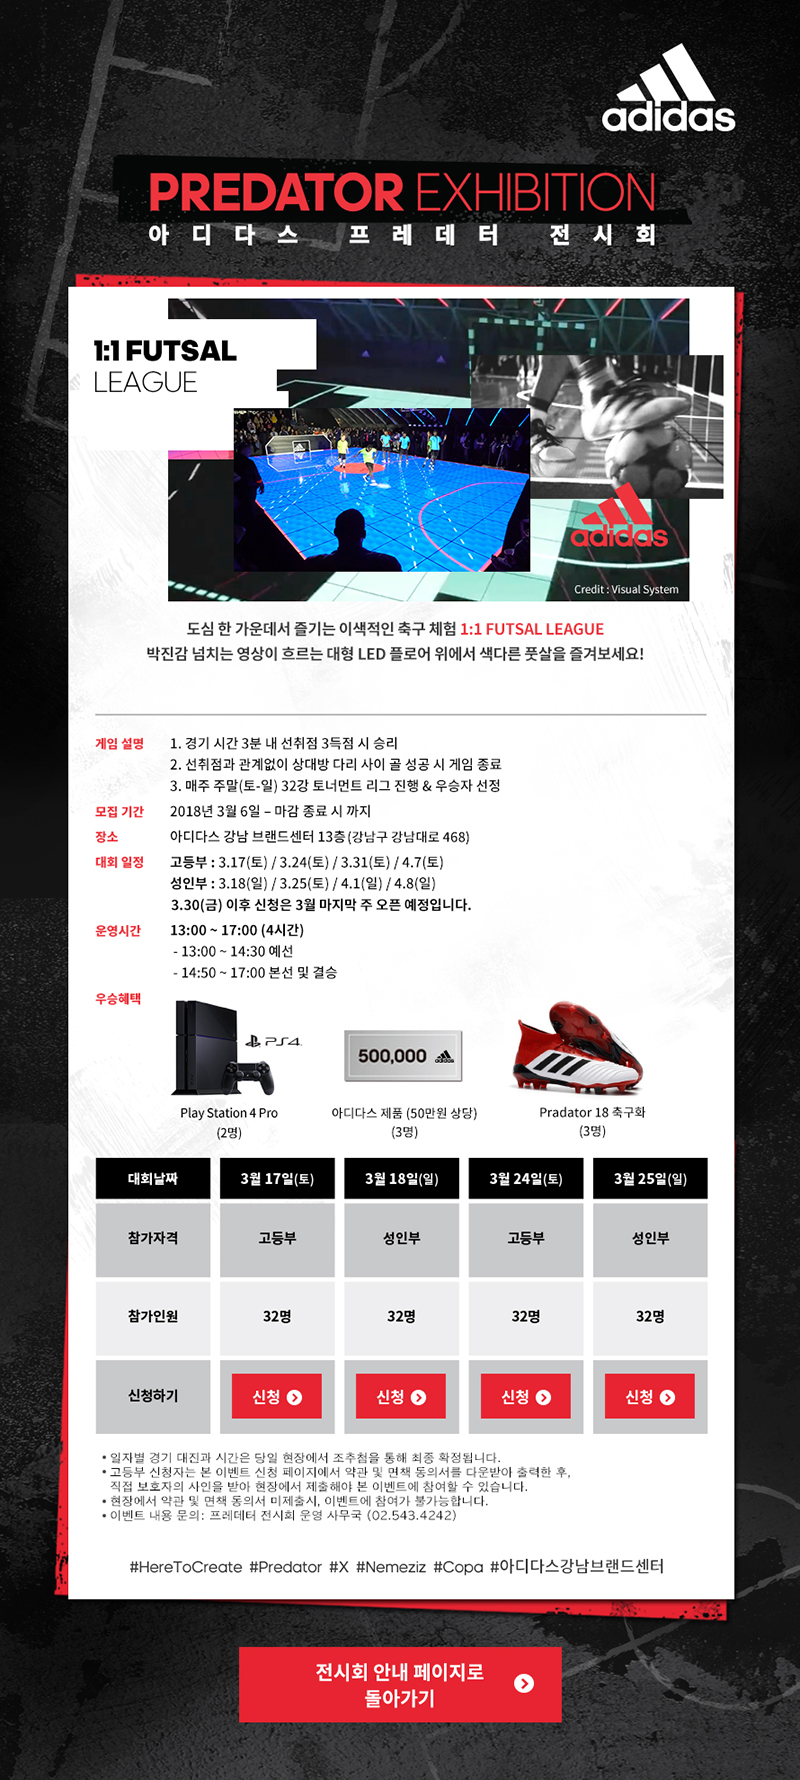
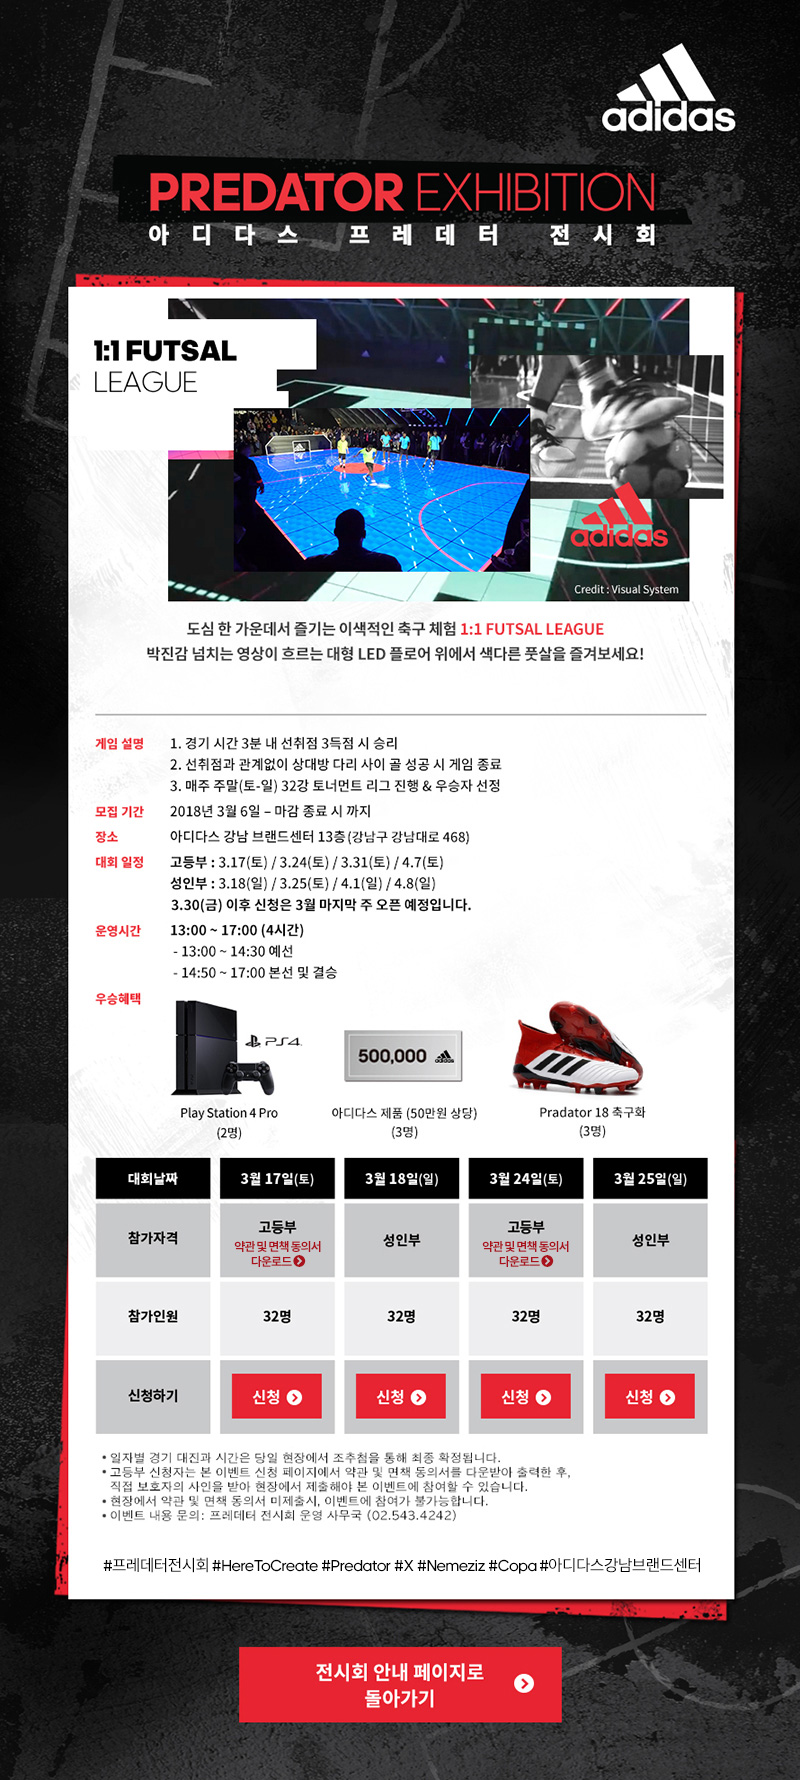
프레데터 전시회 수정

diff --git a/app/html/adidas/campaign/4206/index.html b/app/html/adidas/campaign/4206/index.html
@@ -444,9 +444,12 @@
 
 				</style>
 
-                <!-- 180305 -->
+                <!-- 180307 -->
 				<div style="position:relative" class="adiclub_event">
 					<img src="http://imagem.adidas.co.kr/upload/campaign/adidas/4185/img03.jpg" alt="" style="width:100%;">
+                    <a href="http://shop.adidas.co.kr/upload/campaign/adidas/4185/futsal_league_terms.docx " style="display:inline-block;position: absolute;top:69.1%;left:29%;width:11.2%;height:2.6%;text-indent:-5000px;">약관 및 면책 동의서 다운로드</a>
+                    <a href="http://shop.adidas.co.kr/upload/campaign/adidas/4185/futsal_league_terms.docx " style="display:inline-block;position: absolute;top:69.1%;left:60.1%;width:11.2%;height:2.6%;text-indent:-5000px;">약관 및 면책 동의서 다운로드</a>
+
 					<a href="#" style="display:inline-block;position: absolute;top:77.1%;left:29%;width:11.2%;height:2.6%;text-indent:-5000px;">신청</a>
                     <a href="#" style="display:inline-block;position: absolute;top:77.1%;left:44.5%;width:11.2%;height:2.6%;text-indent:-5000px;">신청</a>
                     <a href="#" style="display:inline-block;position: absolute;top:77.1%;left:60.1%;width:11.2%;height:2.6%;text-indent:-5000px;">신청</a>
@@ -454,7 +457,7 @@
 
 					<a href="#" style="display:inline-block;position: absolute;top:92.5%;right:30%;width:40.5%;height:4.4%;text-indent:-5000px;">전시회 안내 페이지로 돌아가기</a>
 				</div>
-				<!-- 180305 끝 -->
+				<!-- 180307 끝 -->
 
             </div>
 			<!-- //promo_view -->
